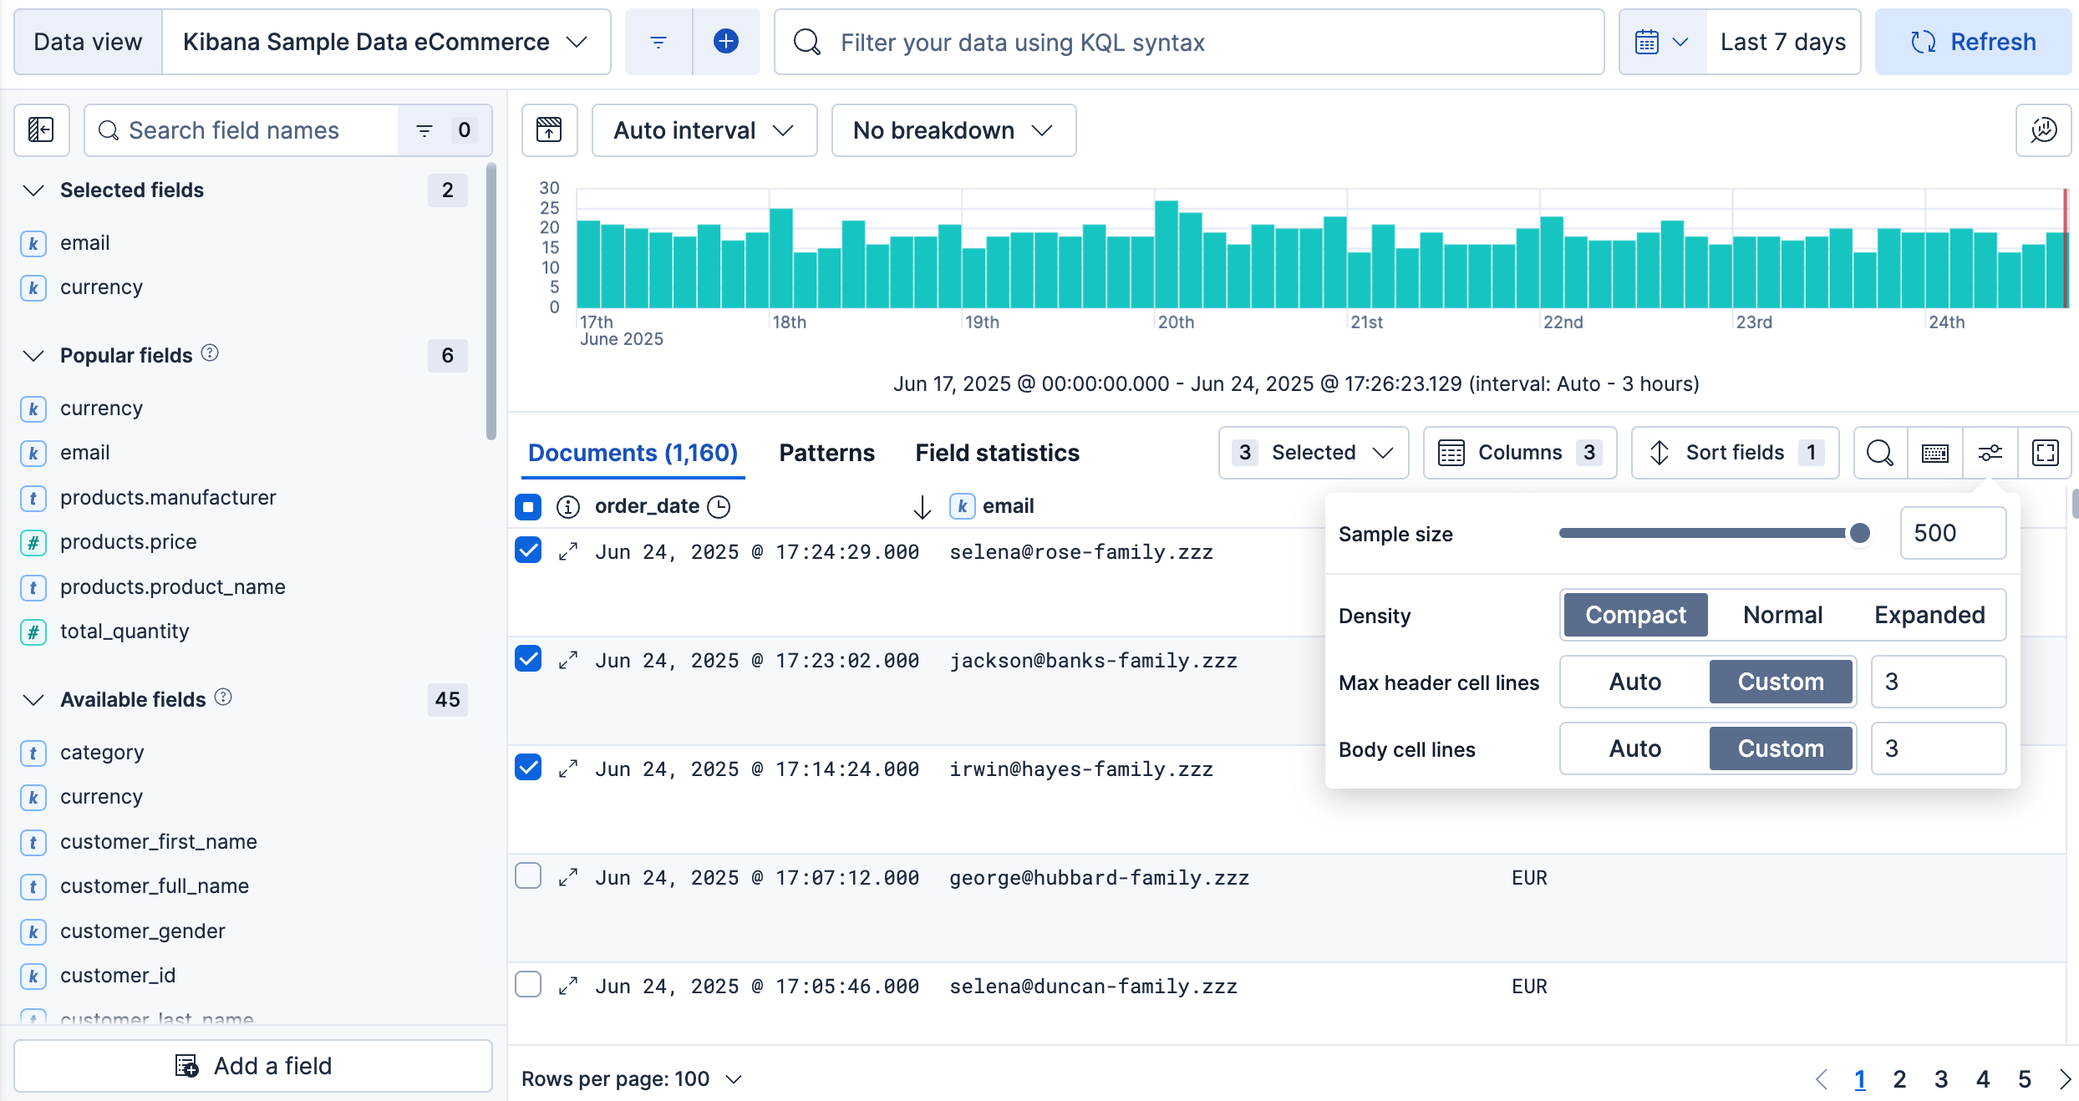
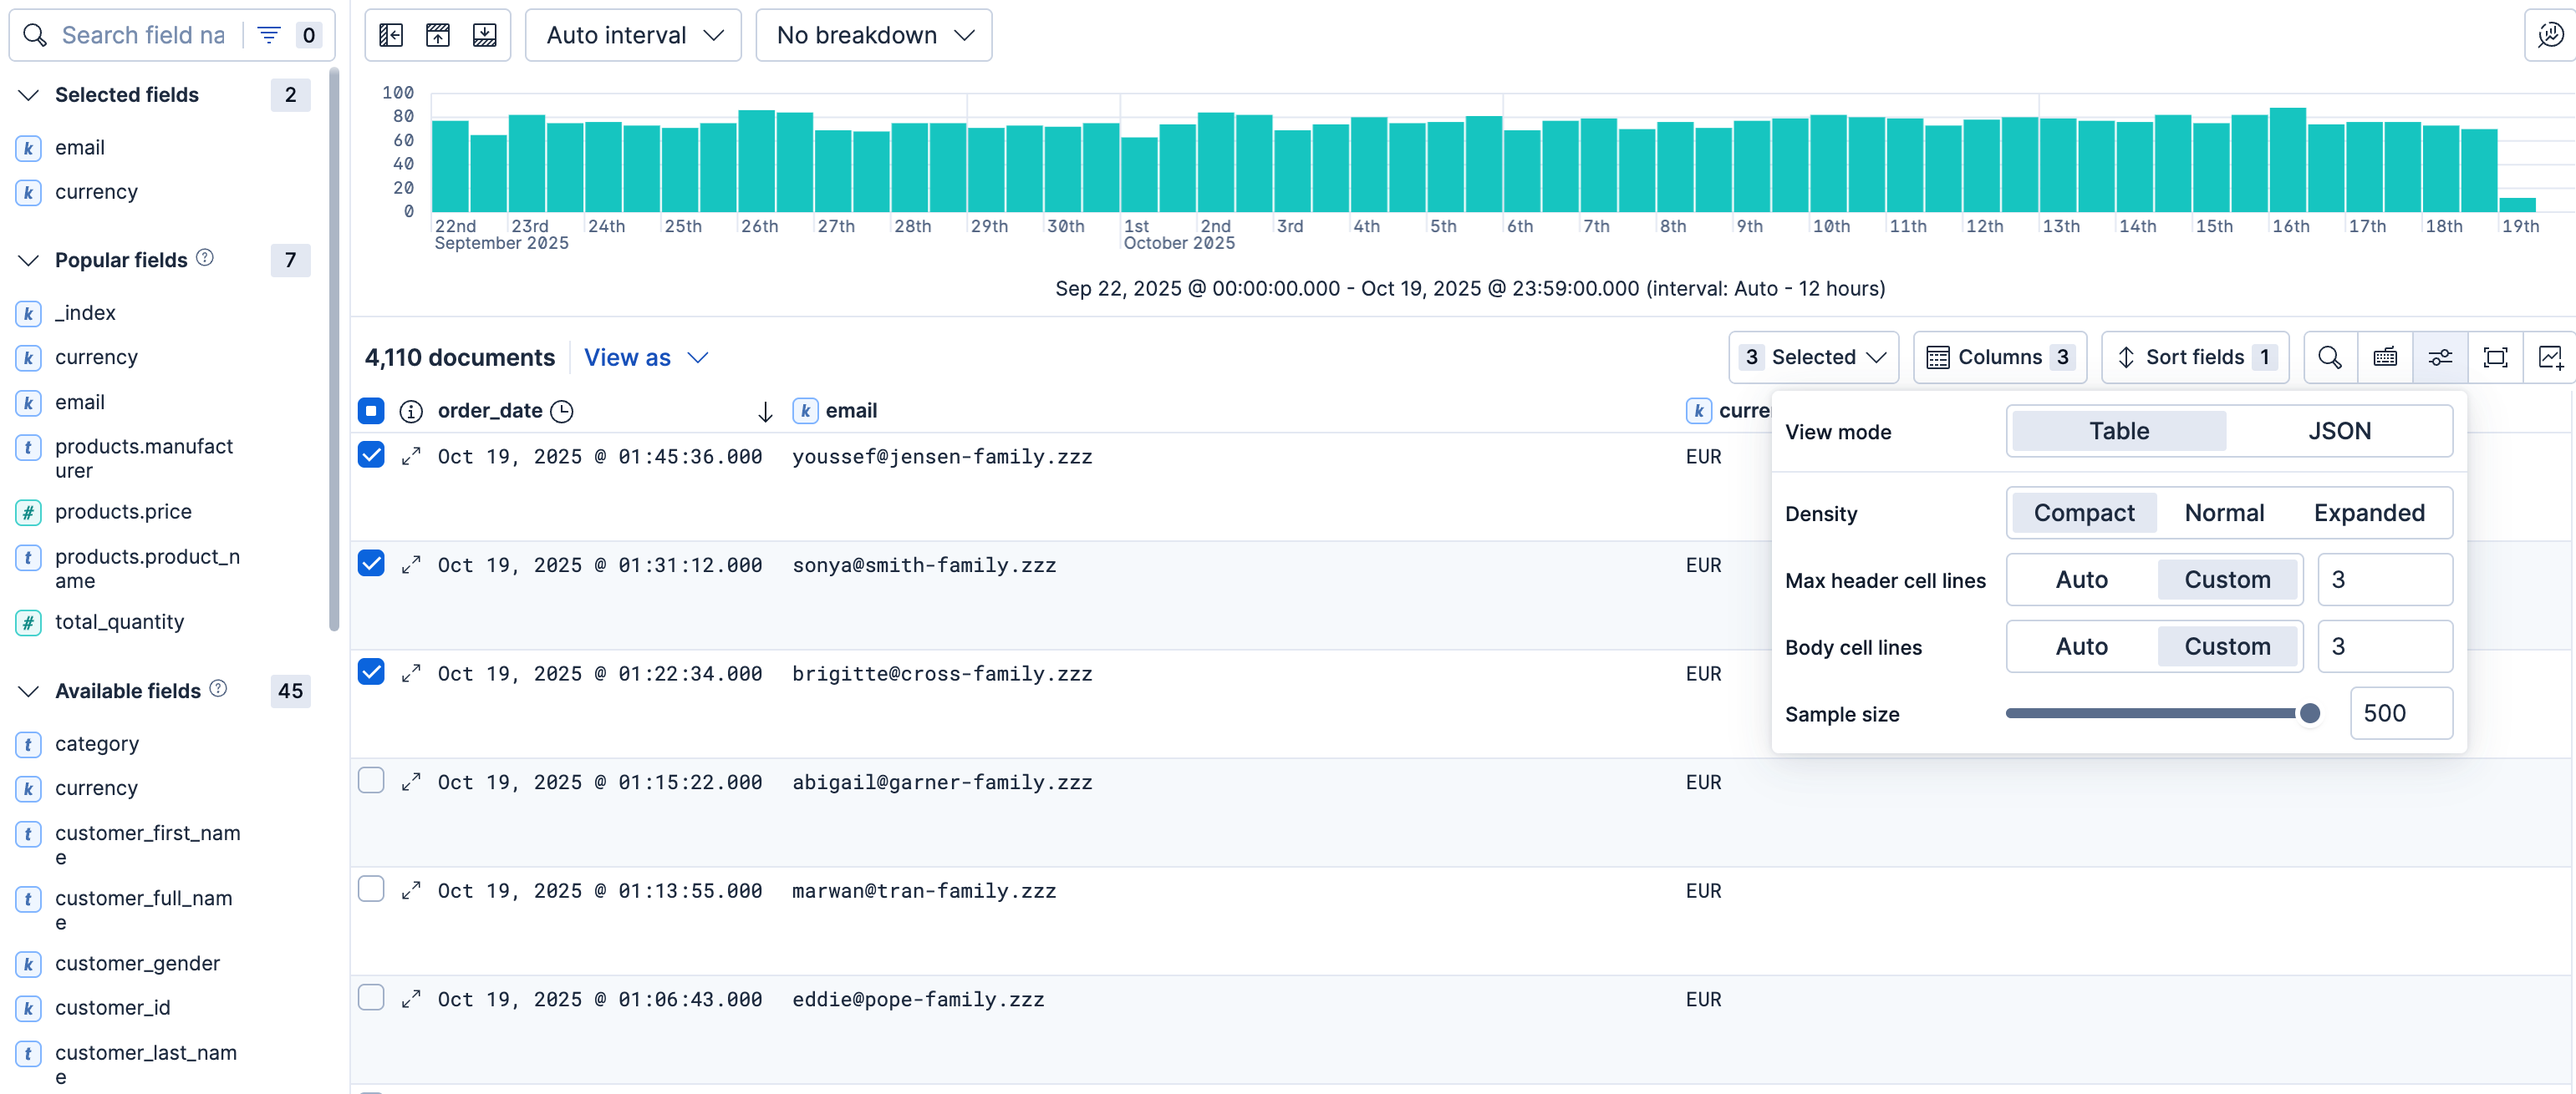
docs: document Discover table JSON View mode (#8135) (#8310)
## Summary

This PR addresses #8135 with the following changes:

- **`explore-analyze/discover/document-explorer.md`**: Adds a tagged
**View documents as JSON** H2 for the document table **JSON** view,
including verified display settings and tree actions from Kibana `main`.
**Modify the document table** stays the column layout, with a **View
mode** pointer. **Table** keeps **Density**, **Max header cell lines**,
and **Body cell lines**. Persistence covers the session, Discover
session panels, and **Save table to dashboard**.
- **`explore-analyze/discover/discover-get-started.md`**: Adds tagged
pointers for field add, copy, and flyout so those workflows send readers
to the new section.
- **`explore-analyze/discover/save-open-search.md`**: Adds **View mode**
and the JSON display settings to the list of what a saved session
stores.

The issue tracked elastic/kibana#285912, which shipped **View mode**
behind `discover.dataTableJsonView`. Later siblings on `main` changed
what to document:

- elastic/kibana#287560 added **Lines shown**.
- elastic/kibana#286819 and related follow-ups added expand, copy, and
filter actions in the JSON tree (docs issue #8133).
- elastic/kibana#289802 removed the feature flag and enabled JSON view
for Discover and Discover session panels.

This draft documents the enabled GA surface on `main`, not the
flag-gated PR alone. Stack availability is `ga 9.6+` because 9.6 is
unreleased and 9.5.3 does not include the enablement. Serverless is
`ga`.
[…]

diff --git a/explore-analyze/discover/document-explorer.md b/explore-analyze/discover/document-explorer.md
@@ -6,7 +6,7 @@ applies_to:
   serverless: ga
 products:
   - id: kibana
-description: Customize the Discover view with flexible display options for the document table, chart, and sidebar. Adjust columns, density, row height, and field visibility for optimal exploration.
+description: Customize the Discover document table, chart, and sidebar. Adjust columns, density, and row height, or inspect documents as JSON.
 ---
 
 # Customize the Discover view [document-explorer]
@@ -40,6 +40,8 @@ Customize the appearance of the document table and its contents to your liking.
 
 ![Options to customize the table in Discover](/explore-analyze/images/kibana-discover-customize-table.png "")
 
+{applies_to}`serverless: ga` {applies_to}`stack: ga 9.6+` To inspect documents as a tree, set **View mode** to **JSON**. Refer to [View documents as JSON](#document-explorer-view-mode).
+
 
 ### Reorder and resize the columns [document-explorer-columns]
 
@@ -51,16 +53,17 @@ Customize the appearance of the document table and its contents to your liking.
   ::::
 
 
+{applies_to}`serverless: ga` {applies_to}`stack: ga 9.6+` **Density** and header and body row height apply to the column layout. They are not available in **JSON** view.
+
+
 ### Customize the table density [document-explorer-density]
 
 You can adjust the density of the table from the **Display options** located in the table toolbar. This can be particularly useful when scrolling through many results.
 
 
-### Adjust the row height [document-explorer-row-height]
+### Adjust header and body row height [document-explorer-row-height]
 
-To set the row height to one or more lines, or automatically adjust the height to fit the contents, open the **Display options** in the table toolbar, and adjust it as you need.
-
-You can define different settings for the header row and body rows.
+Open **Display options** in the table toolbar. Set **Max header cell lines** and **Body cell lines** to **Auto** to fit the contents, or to **Custom** and enter a line count.
 
 
 ### Limit the sample size [document-explorer-sample-size]
@@ -128,3 +131,34 @@ To change the numbers of results you want to display on each page, use the **Row
 :alt: Menu with options for setting the number of results in the document table
 :screenshot:
 :::
+
+
+## View documents as JSON [document-explorer-view-mode]
+```{applies_to}
+serverless: ga
+stack: ga 9.6+
+```
+
+**JSON** view shows each document as a collapsible tree in the table. Use it to inspect nested fields, copy a value or the whole document, and filter without opening the flyout.
+
+Open **Display options** in the table toolbar, then set **View mode** to **JSON**. If you add fields to the table, the tree shows only those fields. If you don't, it shows the full document.
+
+:::{image} /explore-analyze/images/kibana-discover-json-view.png
+:alt: Discover table in JSON view with Display options open
+:screenshot:
+:::
+
+Use **Expand all** and **Collapse all** to open or close nested objects and arrays. Hover a field or value to copy it, or to filter for or filter out that value. Select **Copy all** to copy the document as JSON. To expand only one object's children, hold Command (or Ctrl) and select that object or array.
+
+Use **Display options** to change how each tree looks, and how many documents the table loads:
+
+* **Lines shown**: How much of the tree is open in each cell. The range is 10 to 200. The default is 50.
+* **Hide nulls**: When **On**, **Discover** omits null values from the tree. The default is **Off**.
+* **Wrap lines**: When **On**, long values wrap onto more lines. When **Off**, each value is truncated to one line. The default is **On**.
+* [**Sample size**](#document-explorer-sample-size): How many documents the table loads. To page through one document and the documents around it, use the [document flyout](discover-get-started.md#look-inside-a-document).
+
+You can't filter on values {{es}} ignored at index time, or on values inside a JSON string that **Discover** expanded in the tree. If a document is too large to render in full, **Discover** shows a warning and displays the first 10,000 values.
+
+To go back to columns, set **View mode** to **Table**. You can then change [**Density**](#document-explorer-density) and [header and body row height](#document-explorer-row-height).
+
+If you save the session in **JSON** view, you get the same tree and the same **Lines shown**, **Hide nulls**, and **Wrap lines** values when you open it again. A dashboard panel from that session, or from [**Save table to dashboard**](save-open-search.md#save-table-to-dashboard), looks the same.

diff --git a/explore-analyze/discover/discover-get-started.md b/explore-analyze/discover/discover-get-started.md
@@ -103,6 +103,8 @@ You can later filter the data that shows in the chart and in the table by specif
    ![How to add a field as a column in the table](/explore-analyze/images/kibana-discover-add-field.png "title =50%")
 
    When you add fields to the table, the **Summary** column is replaced. For {{esql}}-specific details about the time field and CSV exports, refer to [Organize the query results](try-esql.md#esql-kibana-results-table).
+
+   {applies_to}`serverless: ga` {applies_to}`stack: ga 9.6+` In **JSON** view, adding fields limits the tree to those fields. Refer to [View documents as JSON](document-explorer.md#document-explorer-view-mode).
    ![Document table with fields for manufacturer](/explore-analyze/images/kibana-document-table.png "")
 
 4. Arrange the view to your liking to display the fields and data you care most about using the various display options of **Discover**. For example, you can change the order and size of columns, expand the table to be in full screen or collapse the chart and the list of fields. Check [Customize the Discover view](document-explorer.md) for more information.
@@ -222,11 +224,15 @@ The content is copied to your clipboard in the selected format. Fields that are 
 You can copy the content of a single cell to your clipboard from the quick actions that appear when hovering over the cell.
 :::
 
+{applies_to}`serverless: ga` {applies_to}`stack: ga 9.6+` In **JSON** view, you can also copy a field, a nested object, or the whole document from the tree. Refer to [View documents as JSON](document-explorer.md#document-explorer-view-mode).
+
 
 ### Explore individual result or document details in depth [look-inside-a-document]
 
 $$$document-explorer-expand-documents$$$
 Dive into an individual document to view its fields and the documents that occurred before and after it.
+
+{applies_to}`serverless: ga` {applies_to}`stack: ga 9.6+` To filter or copy values in the table without opening the flyout, switch **View mode** to **JSON**. Refer to [View documents as JSON](document-explorer.md#document-explorer-view-mode).
 
 1. In the document table, select the **View details** icon {icon}`expand` (**Toggle dialog with details** in earlier {{stack}} versions) to show document details.
 

diff --git a/explore-analyze/discover/save-open-search.md b/explore-analyze/discover/save-open-search.md
@@ -43,9 +43,10 @@ A Discover session stores the following elements for each of its tabs:
 
 - The query mode ({{esql}} or Classic)
 - The query text and filters
+- The {{data-source}}
 - If you turned on **Store time with Discover session**, the selected time filter and refresh interval
 - The current view of **Discover**, including the document table layout, the chart, and any {{esql}} [variable controls](try-esql.md#add-variable-control)
-- The {{data-source}}
+- {applies_to}`serverless: ga` {applies_to}`stack: ga 9.6+` The **JSON** view of the document table, including how each tree is displayed. Refer to [View documents as JSON](document-explorer.md#document-explorer-view-mode).
 - {applies_to}`serverless: preview` {applies_to}`stack: preview 9.6+` The {icon}`bolt` **Fast mode** setting in {{esql}} mode. Refer to [Use Fast mode](/explore-analyze/query-filter/languages/esql-kibana.md#esql-kibana-fast-mode-toggle).
 - {applies_to}`serverless: ga` {applies_to}`stack: ga 9.6+` The selected dimensions and the metric search term for [metrics exploration](/solutions/observability/infra-and-hosts/discover-metrics.md).
 
